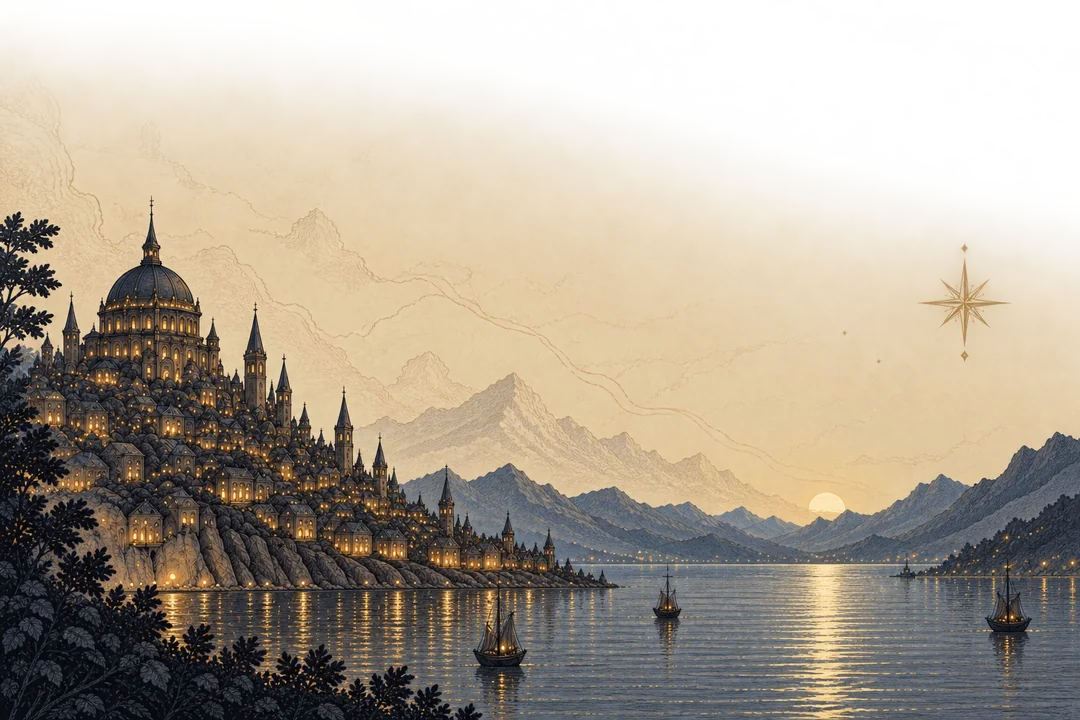
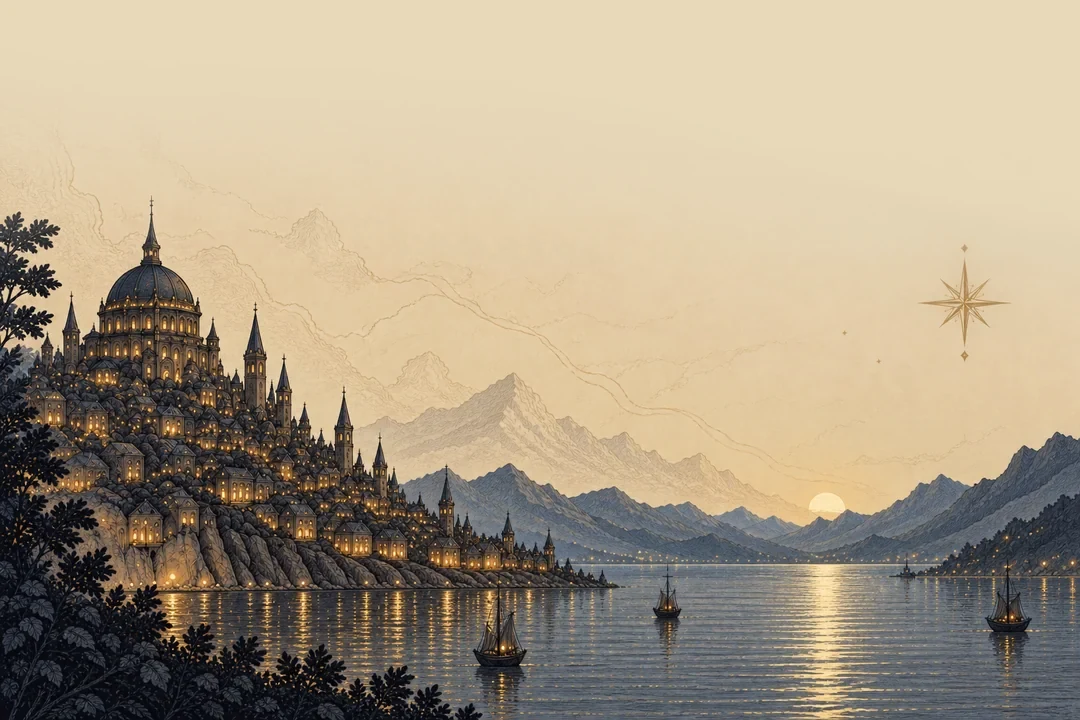
The tan line was in the pixels, not the geometry
Inside its own fade the header's RGB drifts LIGHTER than the panel --
#eadfc2 to #eee5ce to #efe6d2 against a panel of #e7d8ba -- so a
half-transparent light pixel composited over the panel still lands
lighter than the panel. That pale band was the tan line, and no amount of
matching the panel colour would have removed it, because the mismatch was
inside the ramp rather than at its end.

So both artworks are now flattened onto the panel colour and the fade
band is pulled the rest of the way to it on a smoothstep. The header ends
at exactly #e7d8ba and the city begins at exactly #e7d8ba, so the joins
are the panel meeting itself.

They also got much smaller: an opaque WEBP compresses far better than one
carrying an alpha channel. Header 122 KB to 42, city 260 to 123 -- 217 KB
off every OTA payload for a fix rather than a compromise.

Section rules are plain gold lines now. The diamond-centred ornament read
as decoration competing with the label; in the reference the label
carries the weight and the rule just reaches across to the chevron.

Changed region(s): [[0.0, 0.0, 1.0, 0.4583], [0.0, 0.3056, 0.0611, 0.3361]]

diff --git a/mobile/src/components/NavDrawer.tsx b/mobile/src/components/NavDrawer.tsx
@@ -278,9 +278,10 @@ function Section({
           <SectionGlyph name={SECTION_GLYPH[sectionKey]} color={colors.railInk} size={26} />
         </View>
         <Text style={styles.sectionLabelText}>{title.toUpperCase()}</Text>
-        <View style={styles.sectionRuleWrap}>
-          <OrnamentRule color={colors.railDim} />
-        </View>
+        {/* A plain gold rule, as in the reference. The diamond-centred ornament reads as
+            decoration competing with the section label; the reference lets the label carry
+            the weight and the rule simply reach across to the chevron. */}
+        <View style={styles.sectionRule} />
         <Chevron color={colors.railInk} size={15} open={expanded} />
       </Pressable>
 
@@ -348,7 +349,7 @@ function makeStyles(colors: ThemeColors) {
     cornerTL: { position: 'absolute', top: 10, left: 10, zIndex: 2 },
     cornerTR: { position: 'absolute', top: 10, right: 10, zIndex: 2 },
     sectionGlyph: { width: 30, alignItems: 'center', marginRight: 6 },
-    sectionRuleWrap: { flex: 1, marginHorizontal: 10, justifyContent: 'center' },
+    sectionRuleWrap: { flex: 1, marginHorizontal: 10, justifyContent: 'center' },   // unused; kept for the day header rule
     // The epigraph is double-ruled with a star hung below it, so the outer view carries the
     // second rule and the inner one the first.
     epigraphInner: {
@@ -378,7 +379,7 @@ function makeStyles(colors: ThemeColors) {
     section: { marginBottom: 4 },
     sectionLabel: { flexDirection: 'row', alignItems: 'center', paddingVertical: 12, gap: 10 },
     sectionLabelText: { color: colors.gold, fontFamily: FONTS.heading, fontSize: 12, letterSpacing: 2 },
-    sectionRule: { flex: 1, height: 1, backgroundColor: colors.railDim },
+    sectionRule: { flex: 1, height: 1, backgroundColor: colors.railInk, opacity: 0.55, marginHorizontal: 14 },
     sectionArrow: { color: colors.gold, fontSize: 12, transform: [{ rotate: '0deg' }] },
     sectionArrowOpen: { transform: [{ rotate: '90deg' }] },
     item: { flexDirection: 'row', alignItems: 'center', paddingVertical: 11, paddingLeft: 8, gap: 14 },
